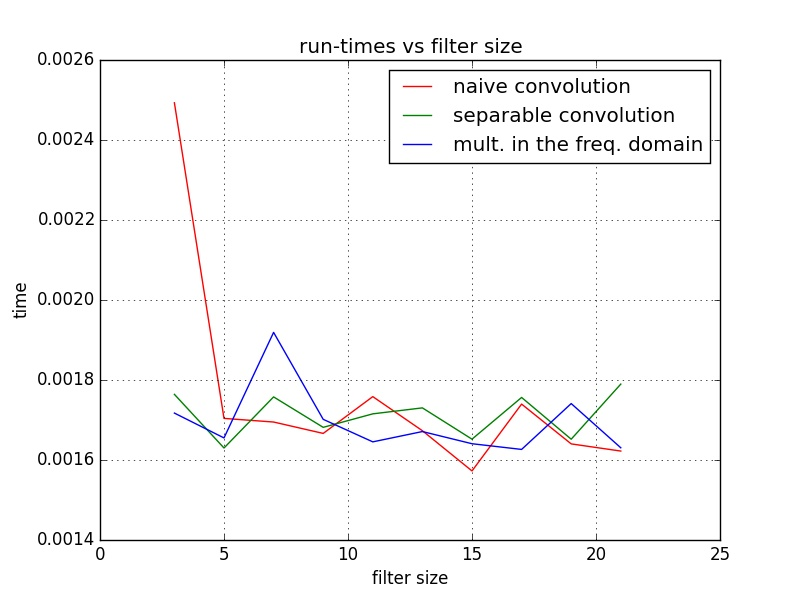
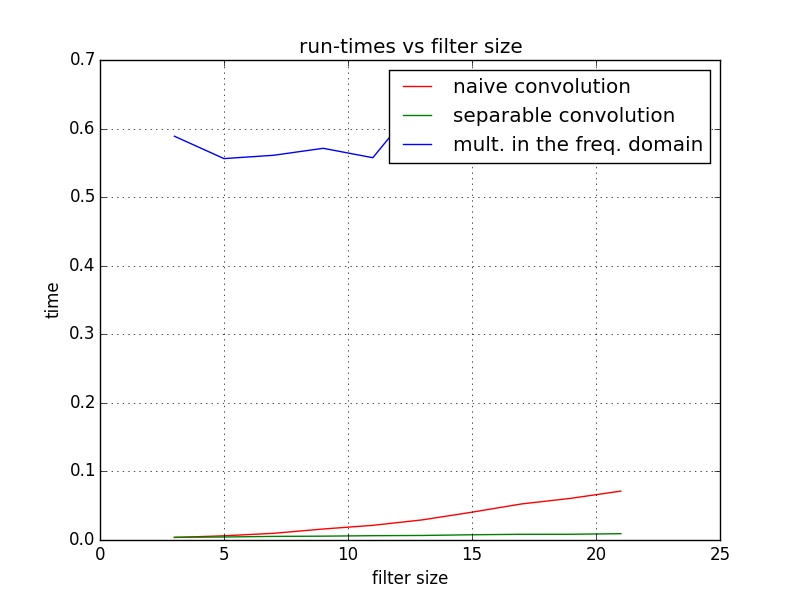
modified task1

diff --git a/project 2/task2.1/task1.py b/project 2/task2.1/task1.py
@@ -4,6 +4,7 @@ import math as mt
 from PIL import Image as im
 from matplotlib import pyplot as plt
 import numpy.fft as fft
+import scipy.ndimage as img
 
 #sigma = 20
 #sigma = (n-1)/float(2*2.575)
@@ -28,7 +29,7 @@ def gridCompute(image,grid_w,grid_h,type):  # kernel grid computing
 			grid[center_w+i,center_h-j] = gaussian(i,j,sigma)
 			grid[center_w-i,center_h-j] = gaussian(i,j,sigma)
 	grid = grid/np.sum(grid)
-	return grid
+	return grid, sigma
 
 def multiplication(image,grid):
 	#-- Fourier transform of original image --#
@@ -61,7 +62,7 @@ def convolution(image,x,y,grid,type):
 def smooth(image,grid_w,grid_h,type):
 	image_w,image_h = image.shape
 	new_image = np.empty([image_w, image_h])
-	grid = gridCompute(image,grid_w,grid_h,type)
+	grid, sigma = gridCompute(image,grid_w,grid_h,type)
 	grid_w_offset = int(grid_w/2)
 	grid_h_offset = int(grid_h/2)
 	if type == 0 or type == 1:
@@ -73,19 +74,24 @@ def smooth(image,grid_w,grid_h,type):
 		#-- Computing log of the image for visualization --#
 		log = lambda t: np.log(np.absolute(t))
 		new_image = np.vectorize(log)(new_image)
+	elif type == 3:
+		new_image = img.filters.convolve(image,grid)
+	elif type == 4:
+		new_image = img.filters.gaussian_filter(image, sigma)  # sequence of one-dimensional convolution filters
 	else:
 		print 'error: unknown type'
 	return new_image
 
 def main(grid_w,grid_h,type):
 	print grid_w, grid_h, type
-	#-- types of blurring: 0 - naive conv., 1 - separable conv., 2 - multiplication in the frequency domain --#
-	#image = np.array(im.open("../img/bauckhage.jpg"))
-	image = np.array(im.open("../img/maltsev.jpg"))
+	#-- types of blurring: 0 - naive conv., 1 - separable conv., 2 - multiplication in the frequency domain, 3 - naive conv. (scipy), 1 - separable conv. (scipy) ---#
+	image = np.array(im.open("../img/bauckhage.jpg"))
+	#image = np.array(im.open("../img/maltsev.jpg"))
+	smooth(image,grid_w,grid_h,type)
 	#plt.imshow(smooth(image,grid_w,grid_h,type),'gray')  
-	plt.imshow(smooth(image[:,:,2],grid_w,grid_h,type),'gray')
-	plt.savefig('maltsev'+str(type)+'.jpg')
-	plt.show()
+	#plt.imshow(smooth(image[:,:,2],grid_w,grid_h,type),'gray')
+	#plt.savefig('maltsev'+str(type)+'.jpg')
+	#plt.show()
 	
 if __name__ == "__main__":
 	main(int(sys.argv[1]),int(sys.argv[2]),int(sys.argv[3])) # grid width, grid height and type of blurring from command line

diff --git a/project 2/task2.1/task1_4.py b/project 2/task2.1/task1_4.py
@@ -3,9 +3,9 @@ import matplotlib.pyplot as plt
 import time
 import task1
 
-time_all = np.zeros([3,10])
+time_all = np.zeros([5,10])
 
-for i in range(3):
+for i in range(2,5):
 	grid_index = 0
 	for j in range(3,22,2):
 		time_meas = np.zeros(10)
@@ -20,11 +20,16 @@ grid_size = np.arange(3,22,2)
 type0_time = time_all[0][:]
 type1_time = time_all[1][:]
 type2_time = time_all[2][:]
-plt.plot(grid_size,type0_time,'r',grid_size,type1_time,'g',grid_size,type2_time,'b')
+type3_time = time_all[3][:]
+type4_time = time_all[4][:]
+
+#plt.plot(grid_size,type0_time,'r',grid_size,type1_time,'g',grid_size,type2_time,'b',grid_size,type3_time,'o',grid_size,type4_time,'y')
+plt.plot(grid_size,type3_time,'r',grid_size,type4_time,'g',grid_size,type2_time,'b')
 plt.ylabel('time')
 plt.xlabel('filter size')
 plt.title('run-times vs filter size')
 plt.grid(True)
+#plt.legend(['naive convolution','separable convolution','mult. in the freq. domain','naive convolution(scipy)','separable convolution(scipy)'])
 plt.legend(['naive convolution','separable convolution','mult. in the freq. domain'])
 plt.savefig("time.jpg")
 plt.show()
